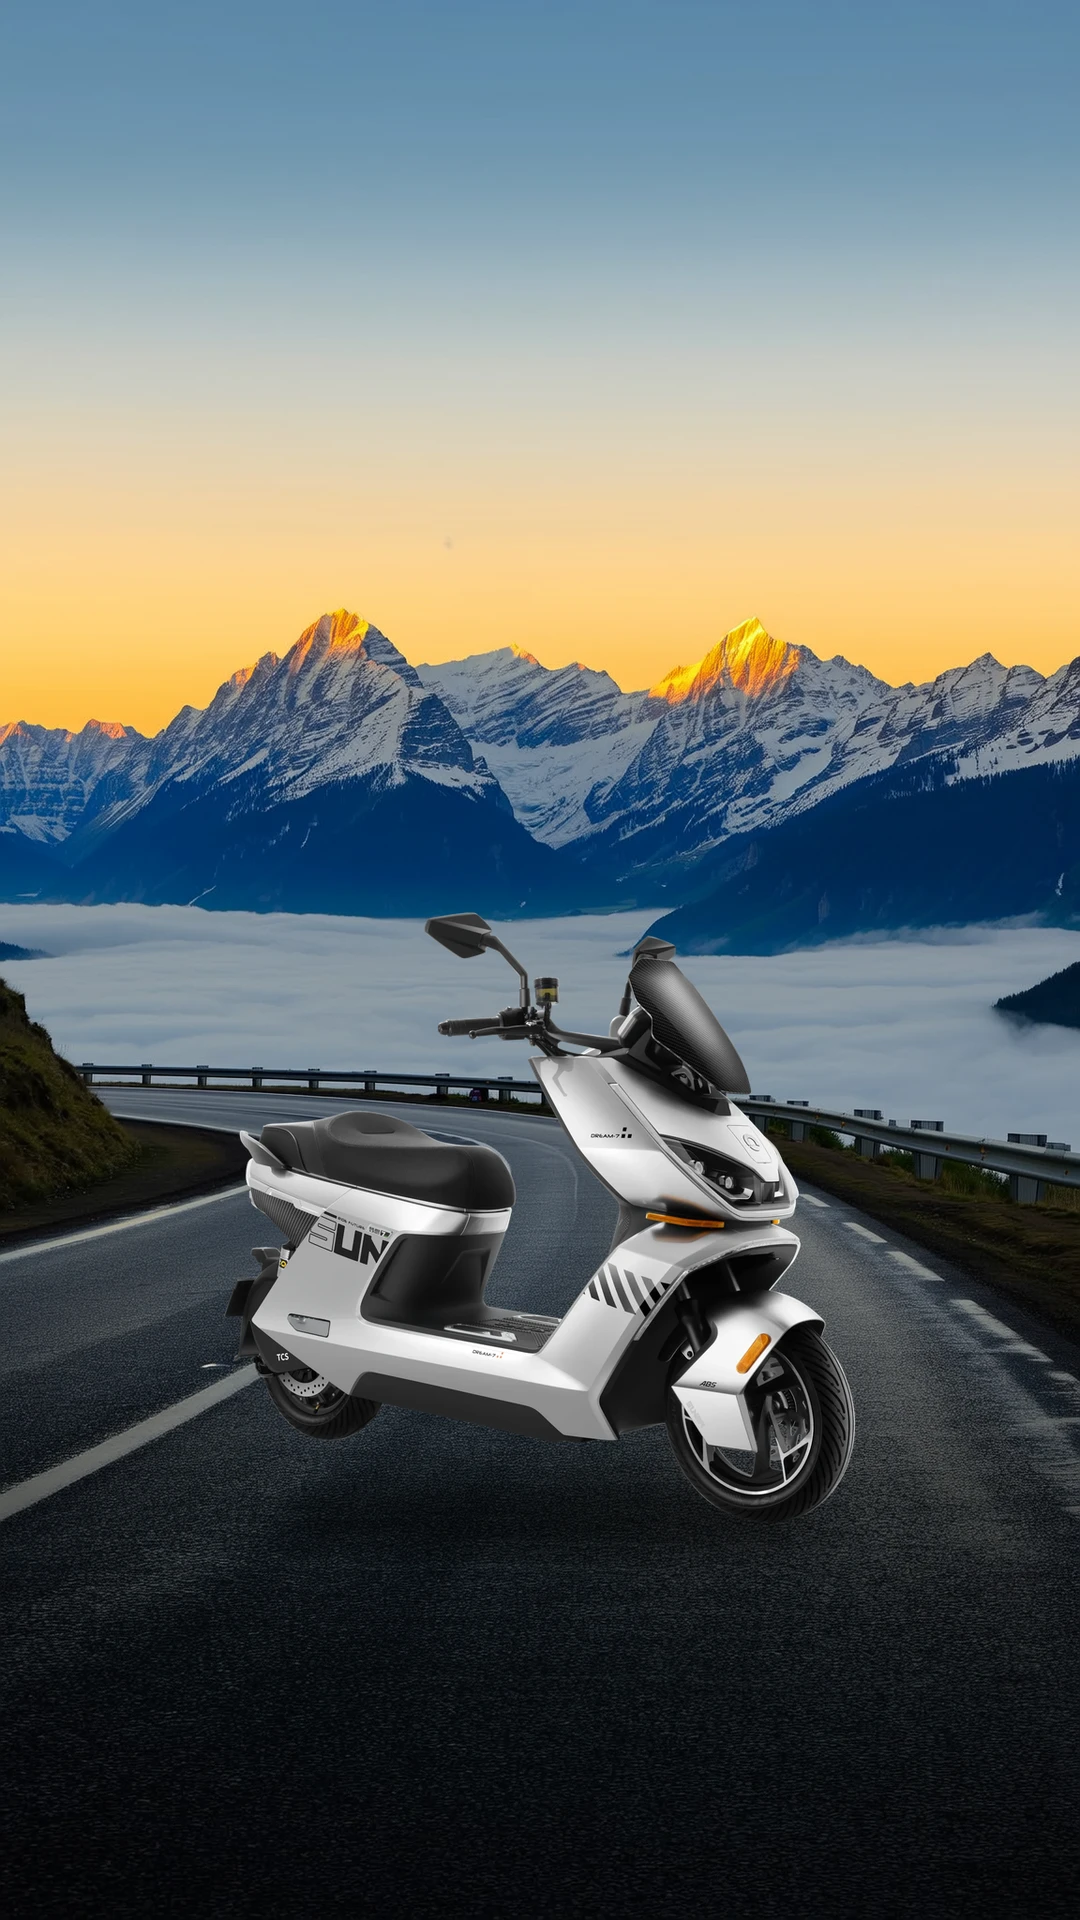
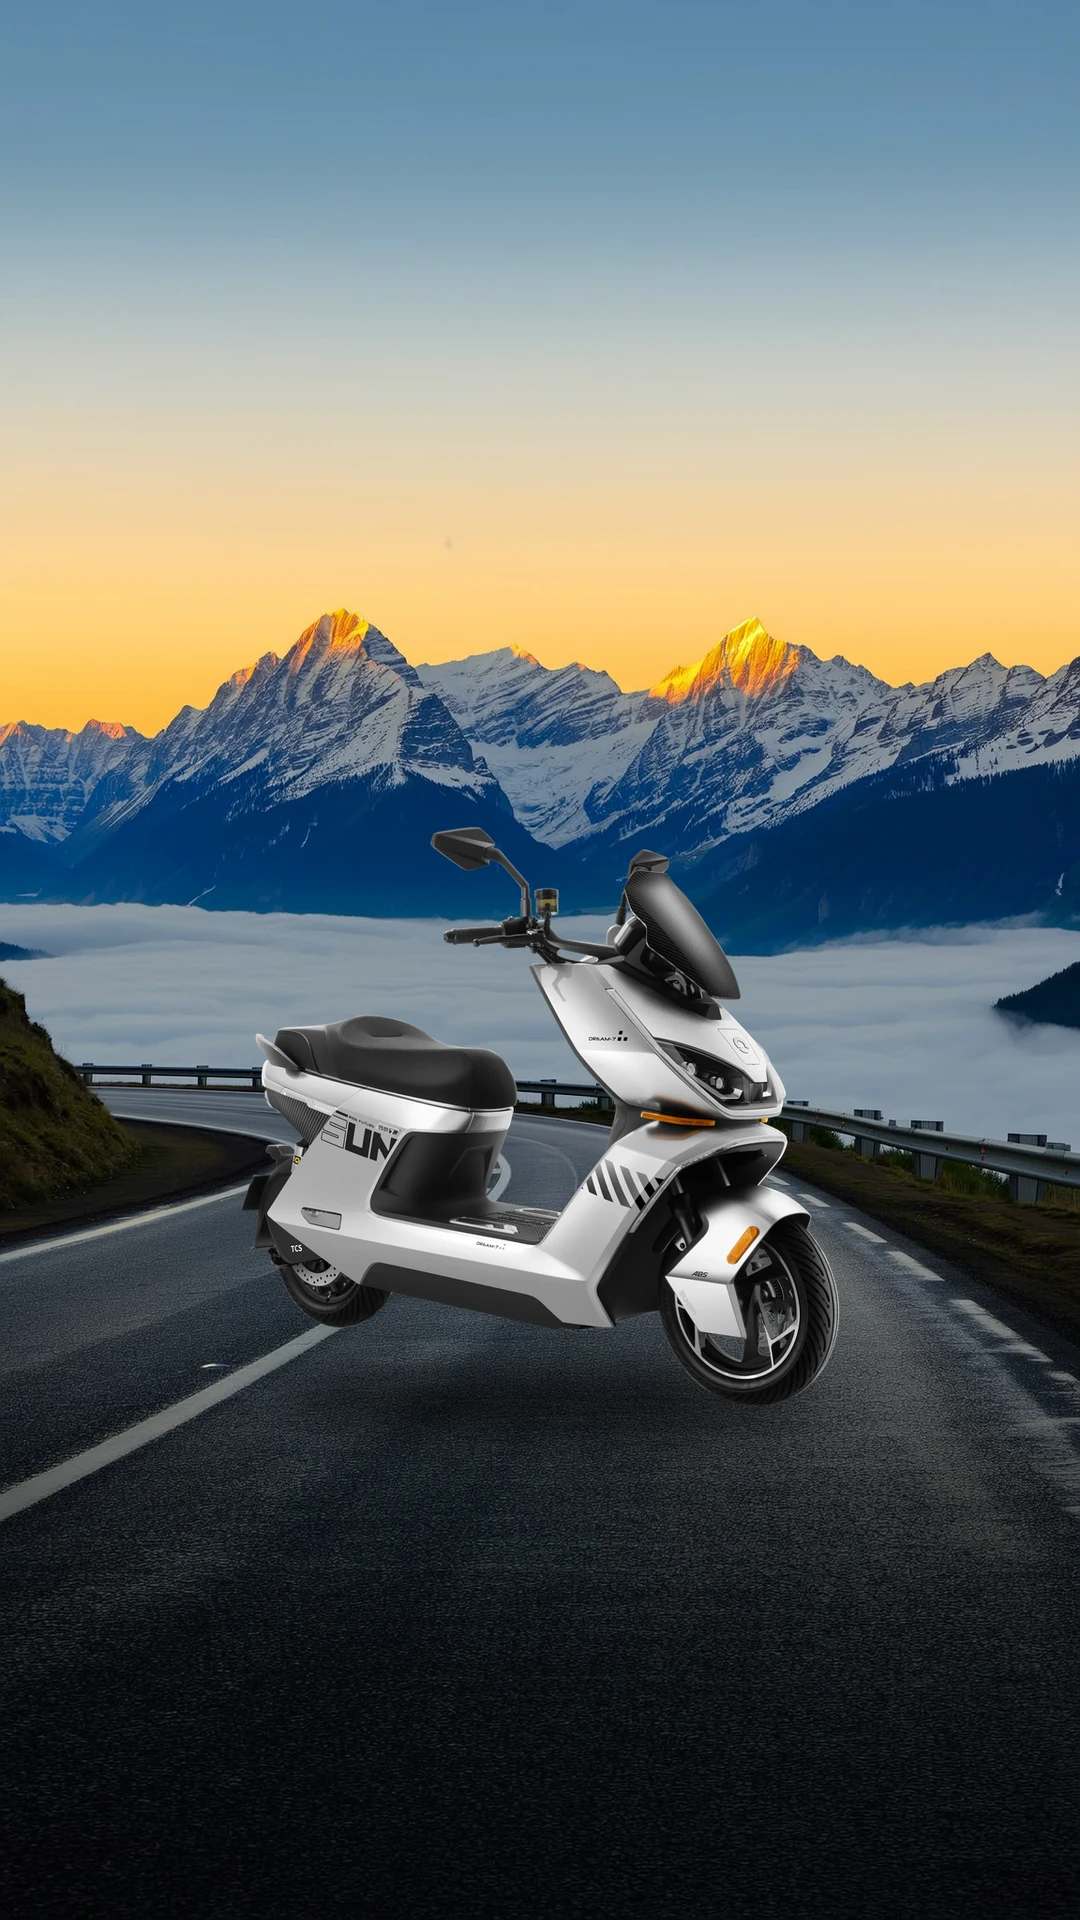
Hero polish: raise mobile scooter for button clearance; desktop headline lower toward bike

Changed region(s): [[0.2139, 0.4062, 0.7944, 0.8125], [0.55, 0.7812, 0.5806, 0.8125]]

diff --git a/index.html b/index.html
@@ -66,7 +66,7 @@ a{color:inherit;text-decoration:none}
 .shot.on{opacity:1}
 .cine::after{content:"";position:absolute;inset:0;z-index:2;pointer-events:none;
   background:linear-gradient(180deg,rgba(6,8,13,.5),rgba(6,8,13,0) 26%,rgba(6,8,13,0) 55%,rgba(6,8,13,.9))}
-.caps{position:absolute;z-index:3;left:24px;right:24px;top:17%;max-width:var(--maxw);margin:0 auto;text-align:center}
+.caps{position:absolute;z-index:3;left:24px;right:24px;top:27%;max-width:var(--maxw);margin:0 auto;text-align:center}
 .cap{position:absolute;left:0;right:0;font-size:clamp(28px,5.6vw,60px);font-weight:800;letter-spacing:-.025em;line-height:1.04;opacity:0;transform:translateY(24px);transition:opacity .9s cubic-bezier(.2,.7,.2,1),transform 1.1s cubic-bezier(.2,.7,.2,1);text-shadow:0 2px 40px rgba(0,0,0,.45)}
 .cap.on{opacity:1;transform:none}
 .cine-wrap{position:relative;z-index:3;height:100%;display:flex;flex-direction:column;justify-content:flex-end;padding-bottom:9vh}
@@ -96,6 +96,7 @@ a{color:inherit;text-decoration:none}
 @media(max-width:720px){
   .groundimg{background-image:url('assets-v2/hero/end_m.webp')}
   .stage{transform-origin:50% 55%;animation-name:introzoomM}
+  .caps{top:15%}
   .cine.ended .fhead{top:9vh;max-width:92vw}
   .cine.ended .final h1{font-size:clamp(24px,6.4vw,34px)}
   .cine.ended .fcta .cta{flex-wrap:nowrap;gap:8px;justify-content:center}

diff --git a/index2.html b/index2.html
@@ -66,7 +66,7 @@ a{color:inherit;text-decoration:none}
 .shot.on{opacity:1}
 .cine::after{content:"";position:absolute;inset:0;z-index:2;pointer-events:none;
   background:linear-gradient(180deg,rgba(6,8,13,.5),rgba(6,8,13,0) 26%,rgba(6,8,13,0) 55%,rgba(6,8,13,.9))}
-.caps{position:absolute;z-index:3;left:24px;right:24px;top:17%;max-width:var(--maxw);margin:0 auto;text-align:center}
+.caps{position:absolute;z-index:3;left:24px;right:24px;top:27%;max-width:var(--maxw);margin:0 auto;text-align:center}
 .cap{position:absolute;left:0;right:0;font-size:clamp(28px,5.6vw,60px);font-weight:800;letter-spacing:-.025em;line-height:1.04;opacity:0;transform:translateY(24px);transition:opacity .9s cubic-bezier(.2,.7,.2,1),transform 1.1s cubic-bezier(.2,.7,.2,1);text-shadow:0 2px 40px rgba(0,0,0,.45)}
 .cap.on{opacity:1;transform:none}
 .cine-wrap{position:relative;z-index:3;height:100%;display:flex;flex-direction:column;justify-content:flex-end;padding-bottom:9vh}
@@ -96,6 +96,7 @@ a{color:inherit;text-decoration:none}
 @media(max-width:720px){
   .groundimg{background-image:url('assets-v2/hero/end_m.webp')}
   .stage{transform-origin:50% 55%;animation-name:introzoomM}
+  .caps{top:15%}
   .cine.ended .fhead{top:9vh;max-width:92vw}
   .cine.ended .final h1{font-size:clamp(24px,6.4vw,34px)}
   .cine.ended .fcta .cta{flex-wrap:nowrap;gap:8px;justify-content:center}
